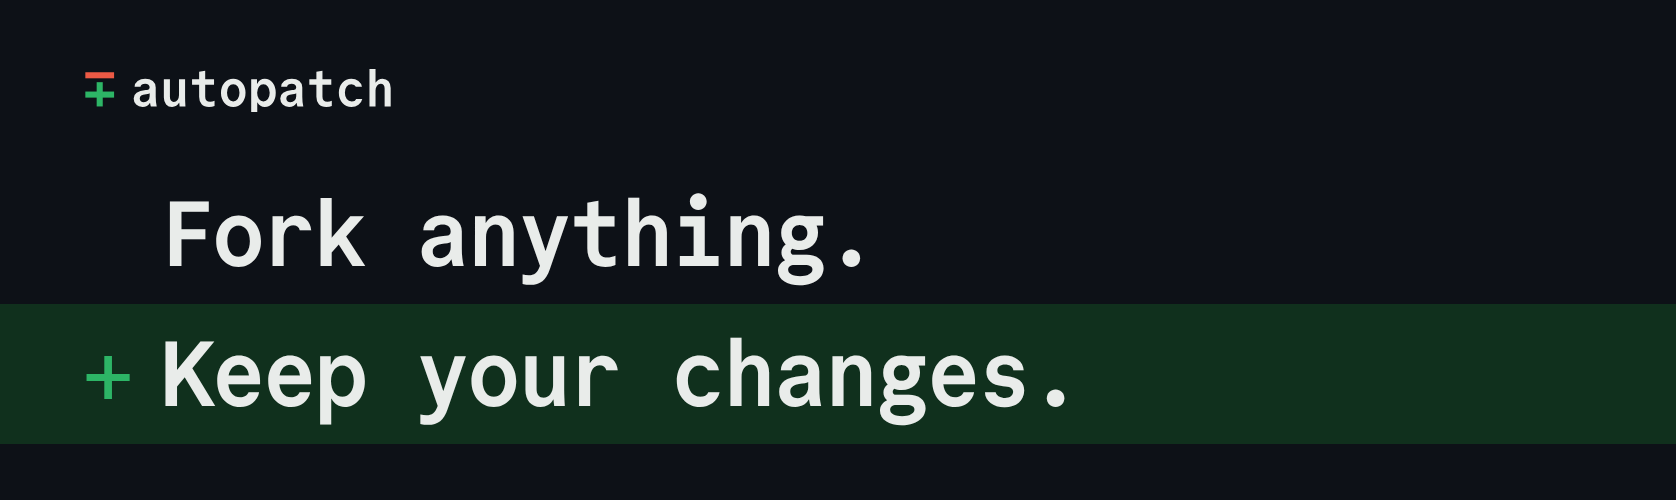
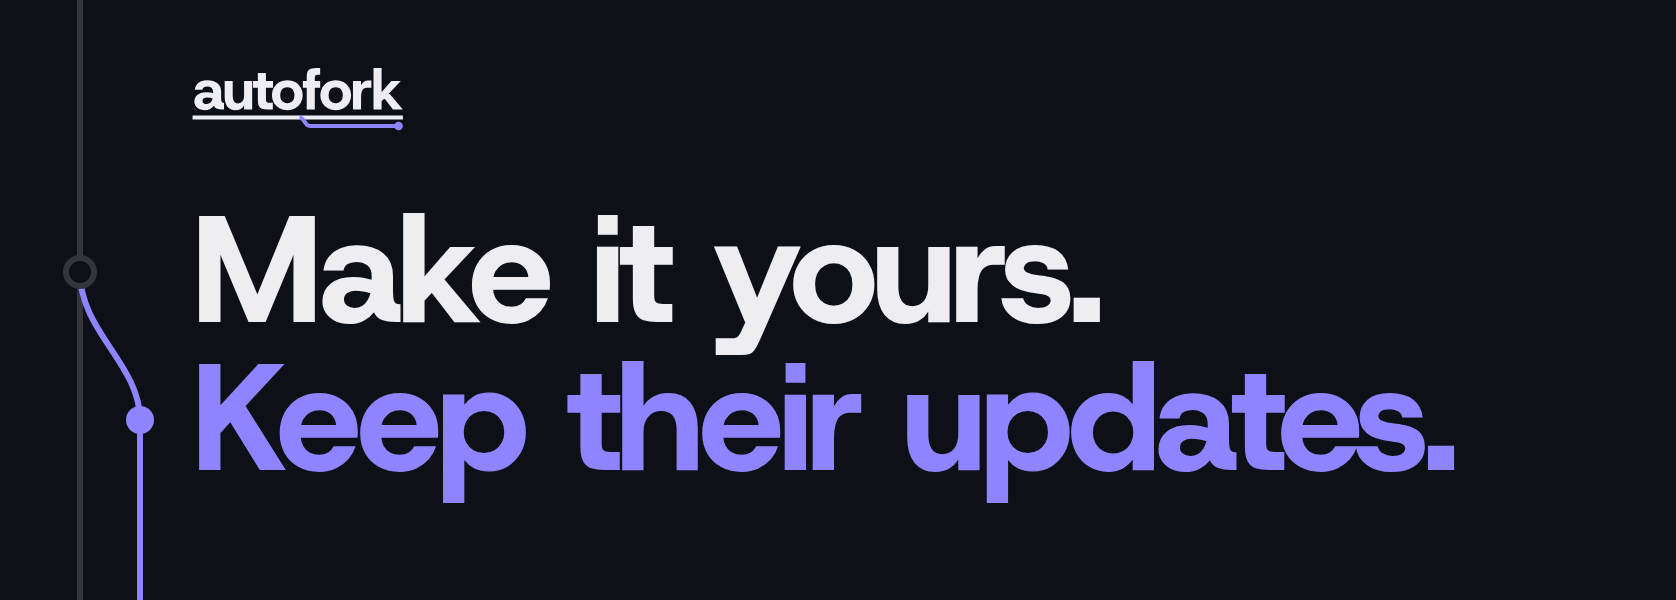
Brand: README header in light and dark with Make it yours, keep their updates, on the branch

diff --git a/brand/readme/header.css b/brand/readme/header.css
@@ -1,11 +1,13 @@
-@font-face { font-family: "Commit Mono"; src: url("../fonts/commit-mono-400.woff2") format("woff2"); font-weight: 400; }
-@font-face { font-family: "Commit Mono"; src: url("../fonts/commit-mono-700.woff2") format("woff2"); font-weight: 700; }
-:root { --bg: #ffffff; --ink: #101312; --sign-del: #d7402c; --sign-add: #1c9a50; --add-bg: #e1f5e7; }
-.dark { --bg: #0d1117; --ink: #e9ecea; --sign-add: #2db566; --add-bg: #10301d; }
+@font-face { font-family: "Host Grotesk"; src: url("../fonts/host-grotesk.woff2") format("woff2"); font-weight: 300 800; }
+:root { --bg: #FFFFFF; --ink: #0E0E12; --trunk: #CACAD2; --you: #3B2BFF; }
+.dark { --bg: #0D1117; --ink: #EEEEF2; --trunk: #34343D; --you: #8F84FF; }
 html, body { margin: 0; }
-body { width: 100vw; height: 100vh; background: var(--bg); align-items: flex-start; color: var(--ink); font-family: "Commit Mono", monospace; font-variant-ligatures: none; overflow: hidden; display: flex; flex-direction: column; justify-content: center; }
-.wm { height: 28px; margin: 0 0 26px 40px; display: block; }
-.ln { align-self: stretch; display: grid; grid-template-columns: 26px 1fr; column-gap: 14px; padding: 0 40px; white-space: nowrap; }
-.big { font-size: 46px; font-weight: 700; letter-spacing: -0.045em; line-height: 70px; }
-.big::before { font-weight: 400; text-align: center; content: " "; }
-.add { background: var(--add-bg); } .add::before { content: "+"; color: var(--sign-add); }
+body { width: 838px; height: 300px; background: var(--bg); color: var(--ink); font-family: "Host Grotesk", sans-serif; position: relative; overflow: hidden; }
+svg.g { position: absolute; inset: 0; }
+.trunk { stroke: var(--trunk); stroke-width: 3; fill: none; }
+.yours { stroke: var(--you); stroke-width: 3; fill: none; }
+.ring { fill: var(--bg); stroke: var(--trunk); stroke-width: 3; }
+.dot { fill: var(--you); }
+.wm { position: absolute; left: 96px; top: 34px; height: 32px; }
+h1 { position: absolute; left: 96px; top: 98px; margin: 0; font-size: 76px; line-height: .98; letter-spacing: -0.028em; font-weight: 800; }
+h1 span { display: block; } h1 .you { color: var(--you); }

diff --git a/brand/readme/header-dark.html b/brand/readme/header-dark.html
@@ -1,10 +1,15 @@
 <!doctype html>
-<html lang="en" class="dark">
+<html lang="en">
 <meta charset="utf-8">
 <link rel="stylesheet" href="header.css">
-<body>
-<img class="wm" src="../logo/autopatch-dark.svg" alt="">
-<div class="ln big">Fork anything.</div>
-<div class="ln big add">Keep your changes.</div>
+<body class="dark">
+<svg class="g" viewBox="0 0 838 300">
+  <path class="trunk" d="M40 0V300"/>
+  <path class="yours" d="M40 136C40 166 70 182 70 210V300"/>
+  <circle class="ring" cx="40" cy="136" r="7"/>
+  <circle class="dot" cx="70" cy="210" r="7"/>
+</svg>
+<img class="wm" src="../logo/autofork-dark.svg" alt="">
+<h1><span>Make it yours.</span><span class="you">Keep their updates.</span></h1>
 </body>
 </html>

diff --git a/brand/readme/header-light.html b/brand/readme/header-light.html
@@ -2,9 +2,14 @@
 <html lang="en">
 <meta charset="utf-8">
 <link rel="stylesheet" href="header.css">
-<body>
-<img class="wm" src="../logo/autopatch.svg" alt="">
-<div class="ln big">Fork anything.</div>
-<div class="ln big add">Keep your changes.</div>
+<body class="light">
+<svg class="g" viewBox="0 0 838 300">
+  <path class="trunk" d="M40 0V300"/>
+  <path class="yours" d="M40 136C40 166 70 182 70 210V300"/>
+  <circle class="ring" cx="40" cy="136" r="7"/>
+  <circle class="dot" cx="70" cy="210" r="7"/>
+</svg>
+<img class="wm" src="../logo/autofork.svg" alt="">
+<h1><span>Make it yours.</span><span class="you">Keep their updates.</span></h1>
 </body>
 </html>
